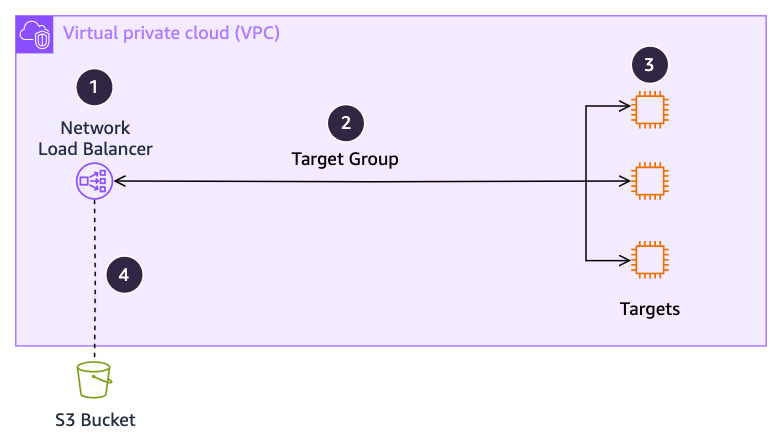
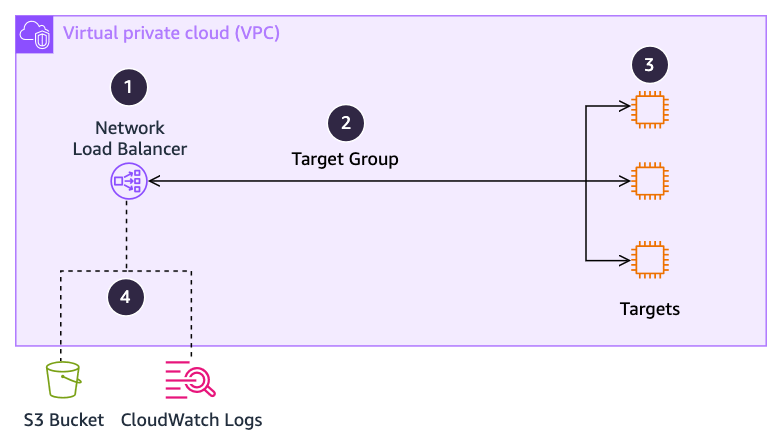
Service Monitoring: Updates for NLB QUIC and logs to CloudWatch logs launches (#115)
* Update NLB for QUIC and logs to CloudWatch Logs launch

* Manually add QUIC

---------

diff --git a/scripts/generate-service-monitoring.py b/scripts/generate-service-monitoring.py
@@ -177,7 +177,9 @@ if __name__ == '__main__':
                              ['warn', 'UnHealthyHostCount', 'Higher than 0 for longer than expected for scaling.'],
                              ['warn', 'UnhealthyRoutingFlowCount', 'Greater than 0'],
                              ['warn', 'TCP_(Client|ELB|Target)_Reset_Count', 'Outside of band, or a large percentage of NewFlowCount'],
-                             ['info', 'ActiveFlowCount, NewFlowCount, PeakPacketsPerSecond, ProcessedByte, ProcessedPacket', 'Outside of band']]},
+                             ['warn', 'QUIC_Unknown_Server_ID_Packet_Drop_Count', '(QUIC only) Higher than 0 for longer than expected for scaling.'],
+                             ['info', 'ActiveFlowCount, NewFlowCount, PeakPacketsPerSecond, ProcessedByte, ProcessedPacket', 'Outside of band'],
+                             ['info', 'NewFlowCount_QUIC, ProcessedBytes_QUIC', '(QUIC only) Outside of band']]},
                                  {'type': 'metrics', 'ns': 'AWS/NetworkELB', 'per': 'target group', 'url': 'https://docs.aws.amazon.com/elasticloadbalancing/latest/network/load-balancer-cloudwatch-metrics.html', 'data':
                                    [['crit', 'PortAllocationErrorCount', 'Greater than 0'],
                                     ['warn', 'UnhealthyRoutingRequestCount, UnhealthyStateDNS, UnhealthyStateRouting', 'Greater than 0']]},

diff --git a/content/monitoring-observability/service-monitoring.md b/content/monitoring-observability/service-monitoring.md
@@ -73,7 +73,7 @@ For quotas:
     |  | :material-alarm-light:{ title="Alarm any time the condition exists." } | `ConnectionState` | Equals 0 |
     |  | :material-alarm-light:{ title="Alarm any time the condition exists." } | `ConnectionEncryptionState` | Equals 0 if MACsec is enabled |
     |  | :material-exclamation-thick:{ title="These statistics should trigger alarms if the condition persists for several minutes. A couple increments occasionally should be expected as a normal part of networking." } | `ConnectionErrorCount` | Going up more than 1/min |
-    |  | :material-exclamation-thick:{ title="These statistics should trigger alarms if the condition persists for several minutes. A couple increments occasionally should be expected as a normal part of networking." } | `ConnectionLightLevel(Rx|Tx)` | Outside the range of:<br><table><tbody><tr><td>1/10G:</td><td>Rx and Tx</td><td>-14.4 to 2.5</td></tr><tr><td rowspan="2">100G</td><td>Tx</td><td>-4.3 to 4.5</td></tr><tr><td>Rx</td><td>-10.6 to 4.5</td></tr><tr><td rowspan="2">400G</td><td>Tx</td><td>-1 to 6.09</td></tr><tr><td>Rx</td><td>-12 to 7.09</td></tr></tbody></table> |
+    |  | :material-exclamation-thick:{ title="These statistics should trigger alarms if the condition persists for several minutes. A couple increments occasionally should be expected as a normal part of networking." } | `ConnectionLightLevel(Rx|Tx)` | Outside the range of:&lt;br&gt;&lt;table&gt;&lt;tbody&gt;&lt;tr&gt;&lt;td&gt;1/10G:&lt;/td&gt;&lt;td&gt;Rx and Tx&lt;/td&gt;&lt;td&gt;-14.4 to 2.5&lt;/td&gt;&lt;/tr&gt;&lt;tr&gt;&lt;td rowspan=&quot;2&quot;&gt;100G&lt;/td&gt;&lt;td&gt;Tx&lt;/td&gt;&lt;td&gt;-4.3 to 4.5&lt;/td&gt;&lt;/tr&gt;&lt;tr&gt;&lt;td&gt;Rx&lt;/td&gt;&lt;td&gt;-10.6 to 4.5&lt;/td&gt;&lt;/tr&gt;&lt;tr&gt;&lt;td rowspan=&quot;2&quot;&gt;400G&lt;/td&gt;&lt;td&gt;Tx&lt;/td&gt;&lt;td&gt;-1 to 6.09&lt;/td&gt;&lt;/tr&gt;&lt;tr&gt;&lt;td&gt;Rx&lt;/td&gt;&lt;td&gt;-12 to 7.09&lt;/td&gt;&lt;/tr&gt;&lt;/tbody&gt;&lt;/table&gt; |
     |_^_| :material-eye-check:{ title="These statistics should always be monitored, and may be alarmed depending on specific use case." } | `ConnectionBps(Ingress|Egress)` | 80% of your link speed |
     | 3 | DX Gateway is not in the traffic path, and does not have metrics to monitor. | ~~ | ~~ |
     | 4 | See [AWS Transit Gateway](#aws-transit-gateway). | ~~ | ~~ |
@@ -164,7 +164,9 @@ For quotas:
     |  | :material-exclamation-thick:{ title="These statistics should trigger alarms if the condition persists for several minutes. A couple increments occasionally should be expected as a normal part of networking." } | `UnHealthyHostCount` | Higher than 0 for longer than expected for scaling. |
     |  | :material-exclamation-thick:{ title="These statistics should trigger alarms if the condition persists for several minutes. A couple increments occasionally should be expected as a normal part of networking." } | `UnhealthyRoutingFlowCount` | Greater than 0 |
     |  | :material-exclamation-thick:{ title="These statistics should trigger alarms if the condition persists for several minutes. A couple increments occasionally should be expected as a normal part of networking." } | `TCP_(Client|ELB|Target)_Reset_Count` | Outside of band, or a large percentage of NewFlowCount |
-    |_^_| :material-eye-check:{ title="These statistics should always be monitored, and may be alarmed depending on specific use case." } | `ActiveFlowCount, NewFlowCount, PeakPacketsPerSecond, ProcessedByte, ProcessedPacket` | Outside of band |
+    |  | :material-exclamation-thick:{ title="These statistics should trigger alarms if the condition persists for several minutes. A couple increments occasionally should be expected as a normal part of networking." } | `QUIC_Unknown_Server_ID_Packet_Drop_Count` | (QUIC only) Higher than 0 for longer than expected for scaling. |
+    |  | :material-eye-check:{ title="These statistics should always be monitored, and may be alarmed depending on specific use case." } | `ActiveFlowCount, NewFlowCount, PeakPacketsPerSecond, ProcessedByte, ProcessedPacket` | Outside of band |
+    |_^_| :material-eye-check:{ title="These statistics should always be monitored, and may be alarmed depending on specific use case." } | `NewFlowCount_QUIC, ProcessedBytes_QUIC` | (QUIC only) Outside of band |
     | 2 | [AWS CloudWatch "AWS/NetworkELB" namespace](https://docs.aws.amazon.com/elasticloadbalancing/latest/network/load-balancer-cloudwatch-metrics.html), per target group: | ~~ | ~~ |
     |    | | **Metric** | **Alarm if** |
     |  | :material-alarm-light:{ title="Alarm any time the condition exists." } | `PortAllocationErrorCount` | Greater than 0 |
@@ -349,10 +351,10 @@ For quotas:
     |  | :material-exclamation-thick:{ title="These statistics should trigger alarms if the condition persists for several minutes. A couple increments occasionally should be expected as a normal part of networking." } | `conntrack_allowance_available` | Approaching zero |
     |  | :material-exclamation-thick:{ title="These statistics should trigger alarms if the condition persists for several minutes. A couple increments occasionally should be expected as a normal part of networking." } | `bw_(in|out)_allowance_exceeded` | Increasing quickly |
     |  | :material-exclamation-thick:{ title="These statistics should trigger alarms if the condition persists for several minutes. A couple increments occasionally should be expected as a normal part of networking." } | `Per interface RX dropped count` | Increasing quickly |
-    |  | :material-exclamation-thick:{ title="These statistics should trigger alarms if the condition persists for several minutes. A couple increments occasionally should be expected as a normal part of networking." } | `queue_<X>_tx_queue_stop` | Increasing quickly |
+    |  | :material-exclamation-thick:{ title="These statistics should trigger alarms if the condition persists for several minutes. A couple increments occasionally should be expected as a normal part of networking." } | `queue_&lt;X&gt;_tx_queue_stop` | Increasing quickly |
     |  | :material-exclamation-thick:{ title="These statistics should trigger alarms if the condition persists for several minutes. A couple increments occasionally should be expected as a normal part of networking." } | `pps_allowance_exceeded` | Increasing quickly |
     |  | :material-exclamation-thick:{ title="These statistics should trigger alarms if the condition persists for several minutes. A couple increments occasionally should be expected as a normal part of networking." } | `linklocal_allowance_exceeded` | Increasing quickly |
-    |_^_| :material-eye-check:{ title="These statistics should always be monitored, and may be alarmed depending on specific use case." } | `Output from “tc –s qdisc show <interface>”` | Shows drops increasing quickly |
+    |_^_| :material-eye-check:{ title="These statistics should always be monitored, and may be alarmed depending on specific use case." } | `Output from “tc –s qdisc show &lt;interface&gt;”` | Shows drops increasing quickly |
     | 2 | AWS CloudWatch “AWS/EC2” namespace contains many metrics to monitor, the exact ones depend on the details of the workload – CPUUtilization is a common one. See [the EC2 metrics page](https://docs.aws.amazon.com/AWSEC2/latest/UserGuide/viewing_metrics_with_cloudwatch.html) for more. | ~~ | ~~ |
     | 3 | Consider enabling [VPC Flow Logs](https://docs.aws.amazon.com/vpc/latest/userguide/flow-logs.html). | ~~ | ~~ |
 